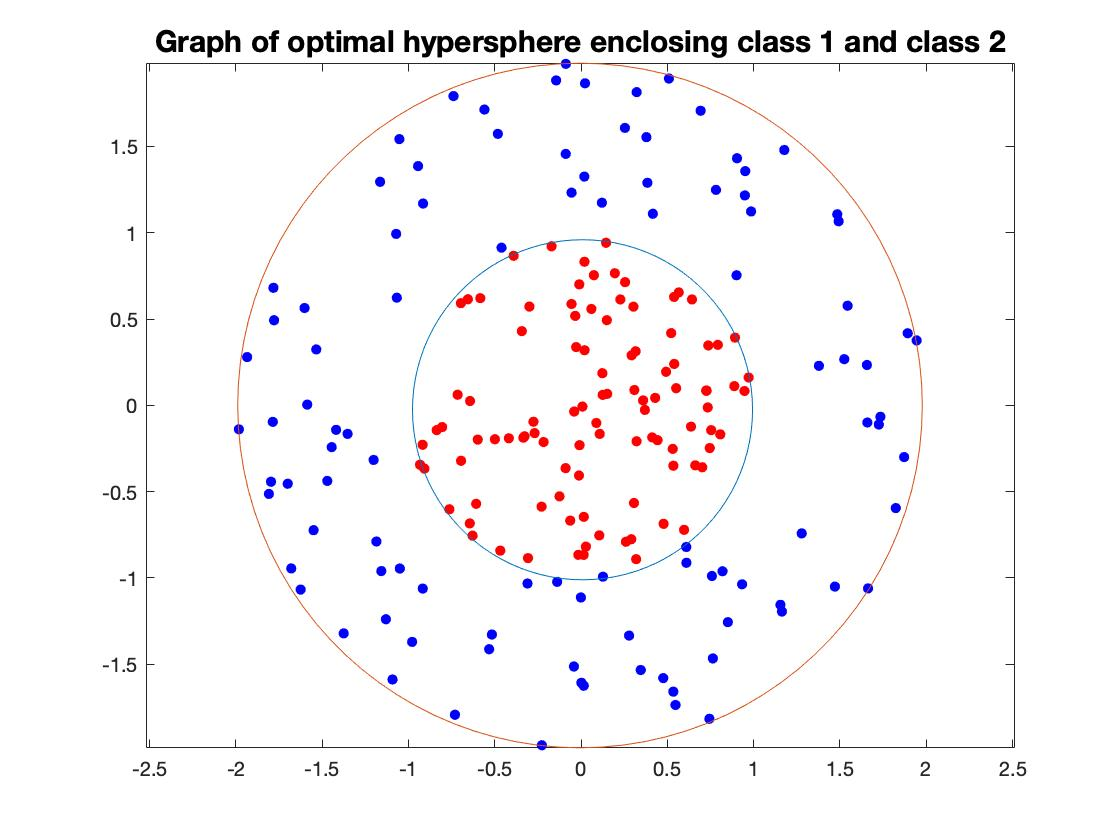
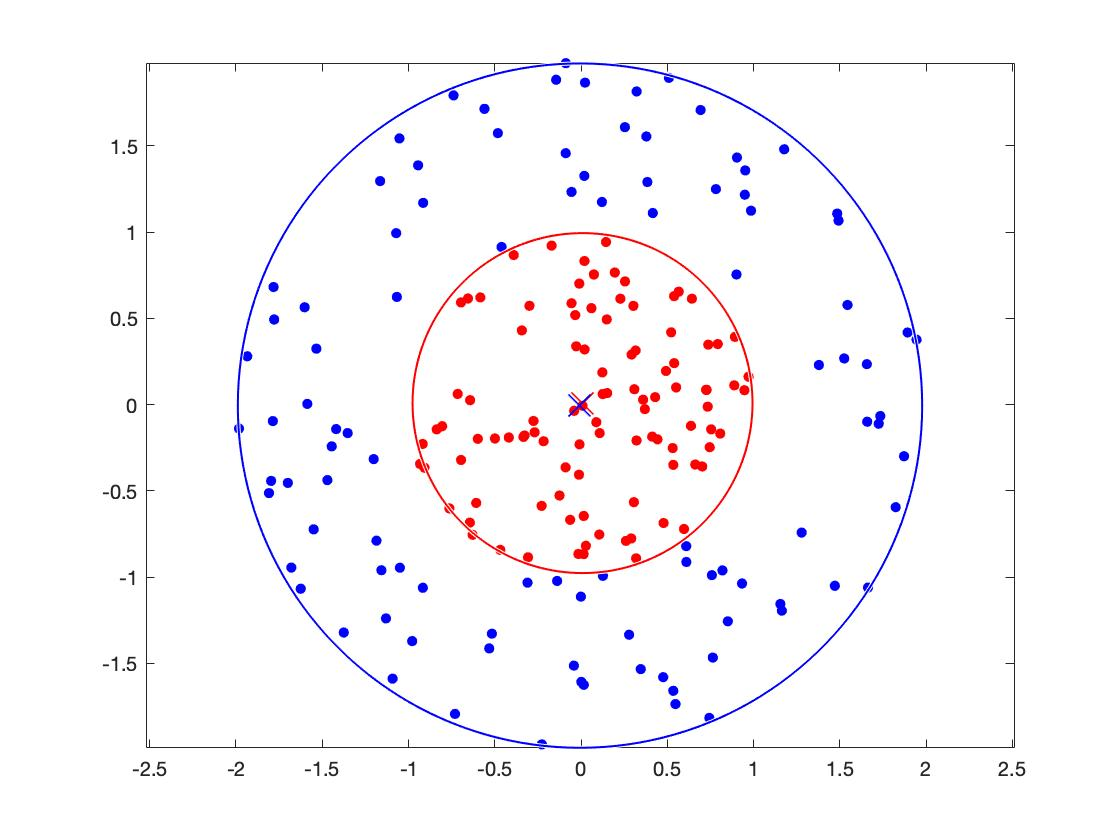
done for part2

diff --git a/CW4/CW_2018_19/partII/partII.m b/CW4/CW_2018_19/partII/partII.m
@@ -6,7 +6,7 @@ function [] = partII()
     r = sqrt(rand(100,1)); 
     t = 2*pi*rand(100,1);  
     data1 = [r.*cos(t), r.*sin(t)]; 
-
+    
     r2 = sqrt(3*rand(100,1)+1); 
     t2 = 2*pi*rand(100,1);      
     data2 = [r2.*cos(t2), r2.*sin(t2)]; 
@@ -25,12 +25,14 @@ function [] = partII()
 
     % work on class 2
     [a2, R2] = calcRandCentre(data2);
-
+    
+    disp(['a1(1),a1(2) ',num2str(a1(1)), ' ',num2str(a1(2)), ' radius1: ', num2str(R1)]);
     % plot centre and radius for class 1
     plot(a1(1), a1(2), 'rx', 'MarkerSize', 15);
     viscircles(a1', R1, 'Color', 'r', 'LineWidth', 1);
     hold on
 
+    disp(['a2(1),a2(2) ',num2str(a2(1)),' ', num2str(a2(2)), ' radius2: ', num2str(R2)]);
     % plot centre and radius for class 2
     plot(a2(1), a2(2), 'bx', 'MarkerSize', 15);
     viscircles(a2', R2, 'Color', 'b', 'LineWidth', 1);
@@ -39,6 +41,48 @@ end
 
 function [a, R] = calcRandCentre(data)
 
-    % to be completed
+
+% Initialise values needed for quadprog.
+% Arbitrary C value.
+C = 0.4;
+
+% Apply linear kernel to data points for each class
+K_x = data * data';
+% y1 = ones(1, 100);
+% y2 = -ones(1, 100);
+% y = [y1 y2]';
+
+% Identify parameters to quadprog function.
+H = 2 * K_x;
+f = -(diag(K_x))';
+
+A = zeros(1, 100);
+
+c = 0;
+A_e = ones(1, 100);
+c_e = 1;
+g_l = zeros(100,1);
+g_u = C * ones(100,1);
+
+% Find optimal Lagrangian multipliers for each class.
+lambda = quadprog(H, f, A, c, A_e, c_e, g_l, g_u);
+
+
+% Substitute optimal lambda to Lagrangian. Solution is equal to the optimal
+% solution for primal problem (-d* = p*). We can then solve for R to find
+% optimal radius of circle.
+opt = -diag(K_x)' * lambda + lambda' * K_x * lambda;
+opt_Radius = sqrt(-opt);
+
+
+% Find vector a (given by sum of x and lambda, see report) for each class.
+a = zeros(2, 1);
+for j = 1 : 100
+    a = a + lambda(j) * data(j);
+end
+
+R = opt_Radius;
+
+
 
 end
